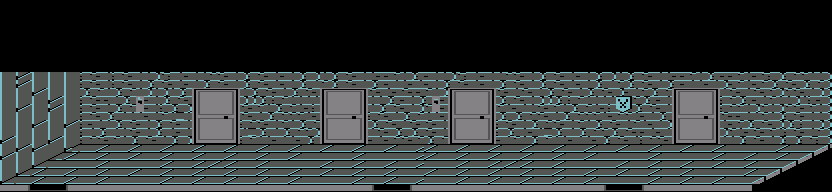
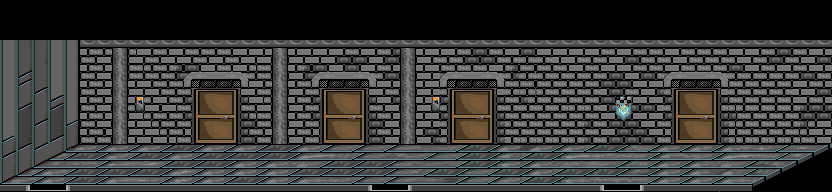
Lobo's graphic update, added light effect + fade

diff --git a/source/CFxFade.cpp b/source/CFxFade.cpp
@@ -6,10 +6,10 @@
 
 void CFxFade::Initialize()
 {
-	m_lightsEnabled = FxManager()->GetFx(FX_LIGHTS)->Enabled();
+	//m_lightsEnabled = FxManager()->GetFx(FX_LIGHTS)->Enabled();
 	
-	if(m_lightsEnabled)
-		FxManager()->SetFx(FX_LIGHTS, false);
+	//if(m_lightsEnabled)
+	//	FxManager()->SetFx(FX_LIGHTS, false);
 	
 	switch(CFx::GetFxType())
 	{
@@ -69,10 +69,8 @@ void CFxFade::UpdateVBlank()
 	{
 		SetEnabled(false);
 		
-		if(m_lightsEnabled)
-			FxManager()->SetFx(FX_LIGHTS, true);
-			
-		return;
+		//if(m_lightsEnabled)
+		//	FxManager()->SetFx(FX_LIGHTS, true);
 	}
 }
 
@@ -85,9 +83,38 @@ void CFxFade::UpdateHBlank()
 void CFxLights::Initialize()
 {
 	for(int i=0; i<SCREEN_HEIGHT; i++)
-		m_map_light[i] = 16 - (abs(i - 40) * ((32.0f / SCREEN_HEIGHT)));
+		m_map_light[i] = 16 - (abs(i - 40) * ((96.0f / SCREEN_HEIGHT)));
 		
-	REG_BLDCNT_SUB = BLEND_FADE_BLACK | BLEND_SRC_BG2 | BLEND_SRC_BG3 | BLEND_SRC_SPRITE;
+	switch(CFx::GetFxType())
+	{
+	case FX_LIGHTS_BLACK:
+	case FX_LIGHTS_BLACK_IN:
+		REG_BLDCNT_SUB = BLEND_FADE_BLACK | BLEND_SRC_BG2 | BLEND_SRC_BG3 | BLEND_SRC_SPRITE;
+		REG_BLDY_SUB = 0;
+		REG_BLDALPHA_SUB = 0xF;
+		break;
+	case FX_LIGHTS_BLACK_OUT:
+		REG_BLDCNT_SUB = BLEND_FADE_BLACK | BLEND_SRC_BG2 | BLEND_SRC_BG3 | BLEND_SRC_SPRITE;
+		REG_BLDY_SUB = 0xF;
+		REG_BLDALPHA_SUB = (0xF << 8);
+		break;
+	case FX_LIGHTS_WHITE:
+	case FX_LIGHTS_WHITE_IN:
+		REG_BLDCNT_SUB = BLEND_FADE_WHITE | BLEND_SRC_BG2 | BLEND_SRC_BG3 | BLEND_SRC_SPRITE;
+		REG_BLDY_SUB = 0;
+		REG_BLDALPHA_SUB = 0xF;
+		break;
+	case FX_LIGHTS_WHITE_OUT:
+		REG_BLDCNT_SUB = BLEND_FADE_WHITE | BLEND_SRC_BG2 | BLEND_SRC_BG3 | BLEND_SRC_SPRITE;
+		REG_BLDY_SUB = 0xF;
+		REG_BLDALPHA_SUB = (0xF << 8);
+		break;
+	default:
+		break;
+	}
+
+	dmaTransfer(1, NULL, NULL, 0, 0);
+	m_fadeValue = 0;	
 }
 
 void CFxLights::Shutdown()
@@ -98,7 +125,36 @@ void CFxLights::Shutdown()
 
 void CFxLights::UpdateVBlank()
 {
-	dmaTransfer(1, &m_map_light[1], (void*) &REG_BLDY_SUB, 1, DMA_ENABLE | DMA_REPEAT | DMA_START_HBL | DMA_DST_RESET);
+	switch(CFx::GetFxType())
+	{
+	case FX_LIGHTS_BLACK:
+	case FX_LIGHTS_WHITE:
+		dmaTransfer(1, m_map_light, (void*) &REG_BLDY_SUB, 1, DMA_ENABLE | DMA_REPEAT | DMA_START_HBL | DMA_DST_RESET);
+		break;
+	case FX_LIGHTS_BLACK_IN:
+	case FX_LIGHTS_WHITE_IN:
+		for(int i=0; i<SCREEN_HEIGHT; i++)
+			m_map_mix[i] = (u16) (m_map_light[i] | m_fadeValue);
+		
+		dmaTransfer(1, m_map_mix, (void*) &REG_BLDY_SUB, 1, DMA_ENABLE | DMA_REPEAT | DMA_START_HBL | DMA_DST_RESET);
+		break;
+	case FX_LIGHTS_BLACK_OUT:
+	case FX_LIGHTS_WHITE_OUT:
+		for(int i=0; i<SCREEN_HEIGHT; i++)
+			m_map_mix[i] = (u16) (m_map_light[i] | (0xF - m_fadeValue));
+		
+		dmaTransfer(1, m_map_mix, (void*) &REG_BLDY_SUB, 1, DMA_ENABLE | DMA_REPEAT | DMA_START_HBL | DMA_DST_RESET);
+		break;
+	default:
+		break;
+	}
+	
+	if(m_fadeValue < 0xF)
+		m_fadeValue++;
+	else
+	{
+		//SetEnabled(false);
+	}
 }
 
 void CFxLights::UpdateHBlank()

diff --git a/source/CGame.cpp b/source/CGame.cpp
@@ -200,7 +200,7 @@ void CGame::Initialize()
 	//m_characterArray[CHARACTER_GABRIEL]->SetFrameType(FRAME_SPEAK);
 	
 	m_fxManager.Initialize();
-	//m_fxManager.SetFx(FX_LIGHTS, true);
+	m_fxManager.SetFx(FX_LIGHTS_BLACK_OUT, true);
 	
 	m_watch = new CWatch(113, 21);
 	m_timer = new CTimer(9, 10, 0, 0);
@@ -289,7 +289,7 @@ void CGame::Update()
 				if(pDoor->pDoorOut()->X() < 128) xChar = pDoor->pDoorOut()->X();
 				if(pDoor->pDoorOut()->X() > m_currentRoom->Width() - 128) xChar = 256 - (m_currentRoom->Width() - pDoor->pDoorOut()->X());	
 				
-				m_fxManager.SetFx(FX_FADE_BLACK_OUT, true);
+				m_fxManager.SetFx(FX_LIGHTS_BLACK_OUT, true);
 				
 				m_currentRoom->Initialize(xRoom);
 				m_snide->SetPosition(xChar, yChar);
@@ -330,7 +330,7 @@ void CGame::Update()
 				if(pDoor->pDoorOut()->X() < 128) xChar = pDoor->pDoorOut()->X();
 				if(pDoor->pDoorOut()->X() > m_currentRoom->Width() - 128) xChar = 256 - (m_currentRoom->Width() - pDoor->pDoorOut()->X());
 				
-				m_fxManager.SetFx(FX_FADE_BLACK_OUT, true);
+				m_fxManager.SetFx(FX_LIGHTS_BLACK_OUT, true);
 				
 				m_currentRoom->Initialize(xRoom);
 				m_snide->SetPosition(xChar, yChar);

diff --git a/source/CFxManager.cpp b/source/CFxManager.cpp
@@ -18,7 +18,12 @@ void CFxManager::Initialize()
 	m_fxArray[FX_FADE_BLACK_OUT] = new CFxFade(FX_FADE_BLACK_OUT, this);
 	m_fxArray[FX_FADE_WHITE_IN] = new CFxFade(FX_FADE_WHITE_IN, this);
 	m_fxArray[FX_FADE_WHITE_OUT] = new CFxFade(FX_FADE_WHITE_OUT, this);
-	m_fxArray[FX_LIGHTS] = new CFxLights(FX_LIGHTS, this);
+	m_fxArray[FX_LIGHTS_BLACK] = new CFxLights(FX_LIGHTS_BLACK, this);
+	m_fxArray[FX_LIGHTS_BLACK_IN] = new CFxLights(FX_LIGHTS_BLACK_IN, this);
+	m_fxArray[FX_LIGHTS_BLACK_OUT] = new CFxLights(FX_LIGHTS_BLACK_OUT, this);
+	m_fxArray[FX_LIGHTS_WHITE] = new CFxLights(FX_LIGHTS_WHITE, this);
+	m_fxArray[FX_LIGHTS_WHITE_IN] = new CFxLights(FX_LIGHTS_WHITE_IN, this);
+	m_fxArray[FX_LIGHTS_WHITE_OUT] = new CFxLights(FX_LIGHTS_WHITE_OUT, this);
 }
 
 void CFxManager::FxOff()

diff --git a/source/CFx.h b/source/CFx.h
@@ -5,11 +5,16 @@
 
 enum FxType
 {
-	FX_FADE_BLACK_IN = 0,
-	FX_FADE_BLACK_OUT = 1,
-	FX_FADE_WHITE_IN = 2,
-	FX_FADE_WHITE_OUT = 3,
-	FX_LIGHTS = 4
+	FX_FADE_BLACK_IN,
+	FX_FADE_BLACK_OUT,
+	FX_FADE_WHITE_IN,
+	FX_FADE_WHITE_OUT,
+	FX_LIGHTS_BLACK,
+	FX_LIGHTS_BLACK_IN,
+	FX_LIGHTS_BLACK_OUT,
+	FX_LIGHTS_WHITE,
+	FX_LIGHTS_WHITE_IN,
+	FX_LIGHTS_WHITE_OUT
 };
 
 class CFxManager;

diff --git a/source/CFxFade.h b/source/CFxFade.h
@@ -35,7 +35,9 @@ public:
 
 private:
 
-	u16 m_map_light[SCREEN_HEIGHT+1];
+	u16 m_map_light[SCREEN_HEIGHT];
+	u16 m_map_mix[SCREEN_HEIGHT];
+	u16 m_fadeValue; 
 };
 
 #endif

diff --git a/source/Main.cpp b/source/Main.cpp
@@ -69,9 +69,9 @@ int main(void)
 
 	while(1)
 	{
-		m_game.Update();
-		
 		swiWaitForVBlank();
+		
+		m_game.Update();
 	}
 
 	return 0;
